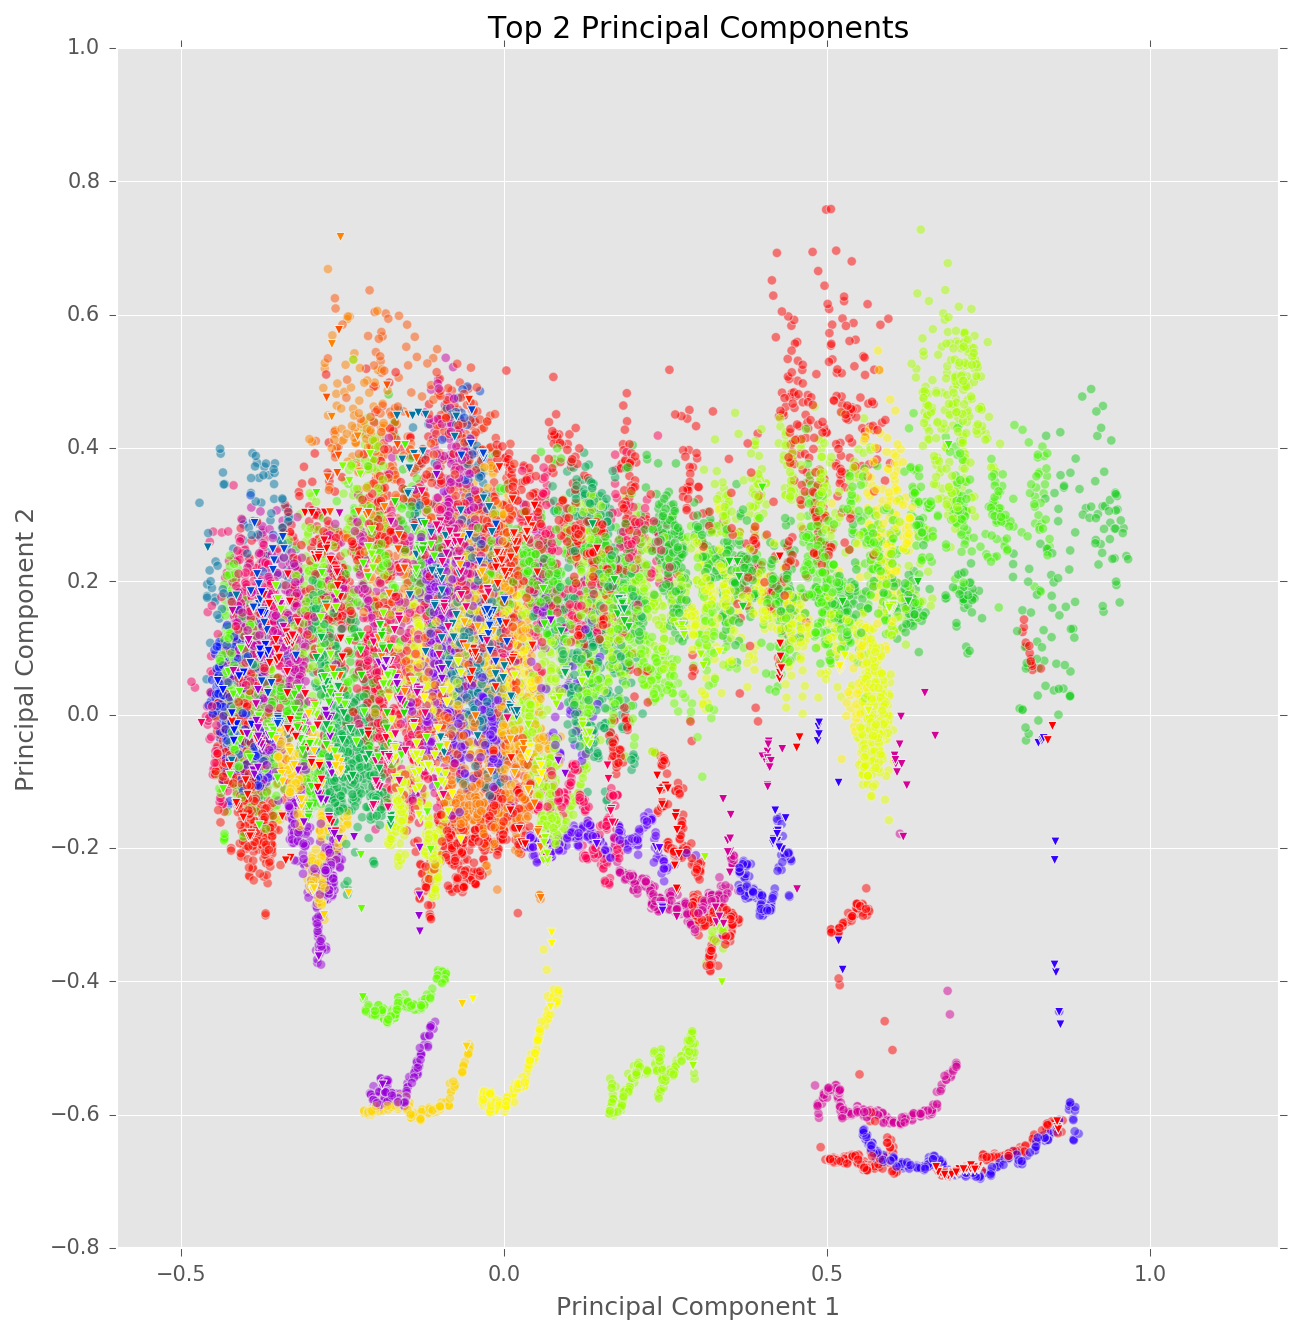
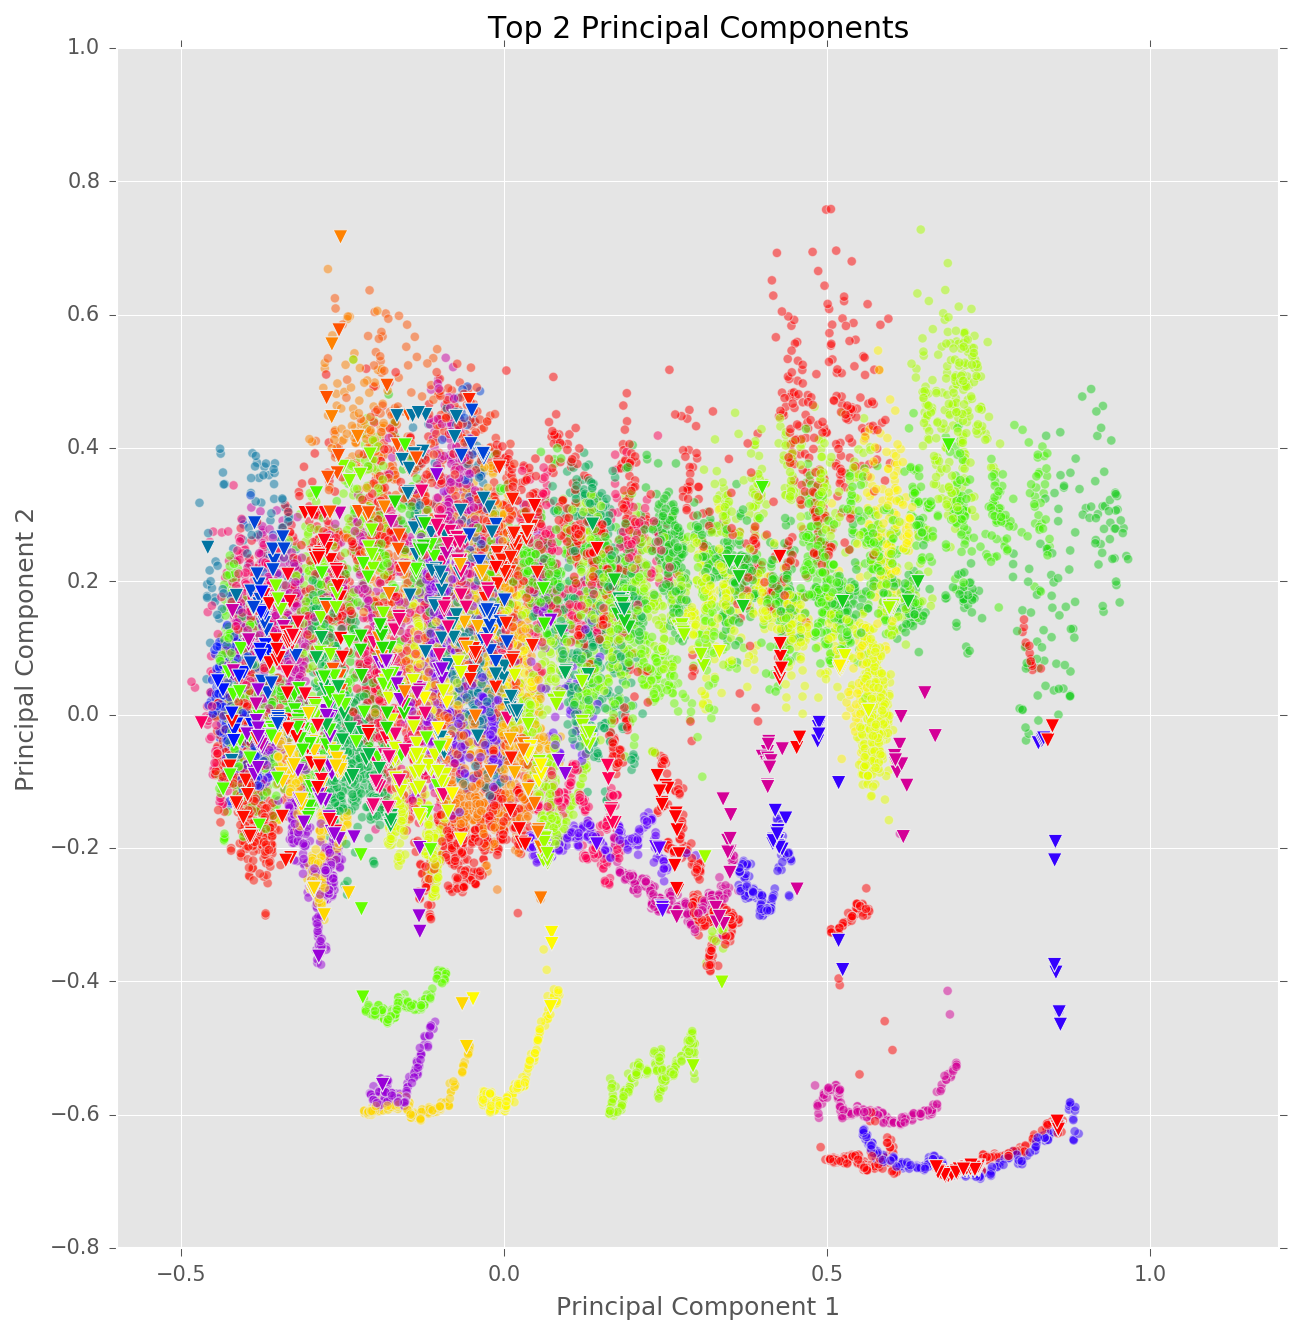
report revision

diff --git a/code/08_final_plots.py b/code/08_final_plots.py
@@ -77,7 +77,7 @@ plt.title('Top 2 Principal Components')
 plt.scatter(dftr[accurate][:,0], dftr[accurate][:,1],
             c=dftr[accurate][:,3], alpha=0.5, cmap=plt.cm.prism, marker='o')
 plt.scatter(dftr[~accurate][:,0], dftr[~accurate][:,1],
-            c=dftr[~accurate][:,3], alpha=1, cmap=plt.cm.prism, marker='v')
+            c=dftr[~accurate][:,3], alpha=1, cmap=plt.cm.prism, marker='v', s= 50)
 
 plt.savefig('../plots/pca_2components_classified.png', format='png', bbox_inches='tight', pad_inches=0.1,dpi=150)
 

diff --git a/report/report.md b/report/report.md
@@ -225,7 +225,7 @@ visualized with the classes predicted.
 * Circles denote correctly predicted classes
 * Inverted triangles denote incorrectly predicted classes
 
-![Scree Plot](../plots/screeplot.png)
+
 
 ## Conclusion
 
